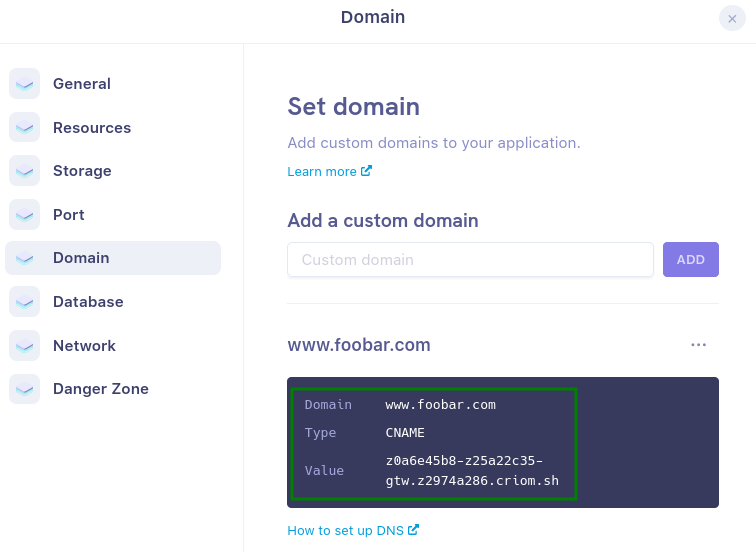
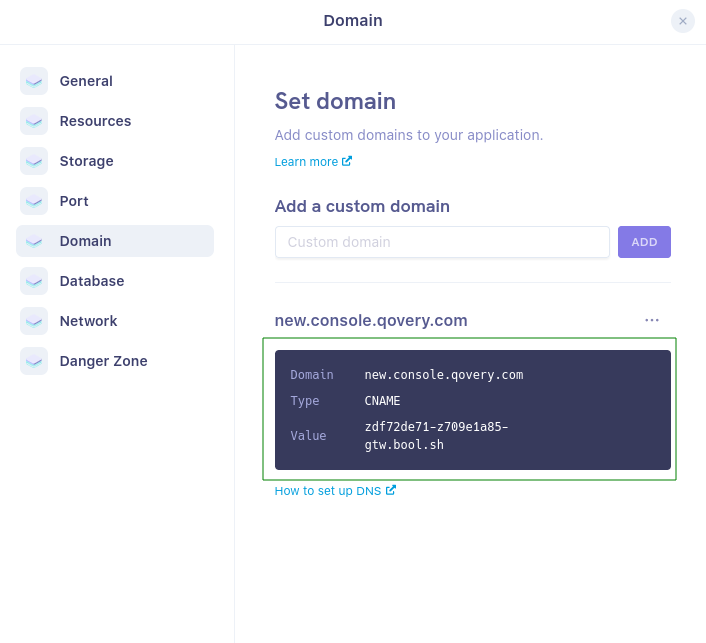
Use a real example for domain config & dig command

diff --git a/website/docs/using-qovery/troubleshoot.md b/website/docs/using-qovery/troubleshoot.md
@@ -1,5 +1,5 @@
 ---
-last_modified_on: "2022-07-19"
+last_modified_on: "2022-08-25"
 title: Troubleshoot
 description: "Everything you need to troubleshoot your application with Qovery"
 sidebar_label: hidden
@@ -176,11 +176,12 @@ When a custom domain is added to an application, it must be configured on your s
   <img src="/img/custom-domain-configuration.png" alt="Custom Domain Configuration" />
 </p>
 
-You can check that your custom domain is well configured by executing the following command:
-```
-dig A www.your-custom-domain.com +short
-```
-You should retrieve in the `ANSWER SECTION` the default url configured by Qovery: zxxxxxxxx-zxxxxxxxx-gtw.zxxxxxxxx.qovery.cloud.
+You can check that your custom domain is well configured using the following command: `dig A ${YOUR_CUSTOM_DOMAIN} +short`:
+<p Valign="center">
+  <img src="/img/custom-domain-verification-dig.png" alt="Custom Domain Verification" />
+</p>
+
+You should retrieve in the output the default url configured by Qovery, e.g `zdf72de71-z709e1a85-gtw.bool.sh` in our example
 
 The SSL / TLS Certificate is generated for the whole group of custom domains you define:
 * if one custom domain is misconfigured: the certificate can't be generated
